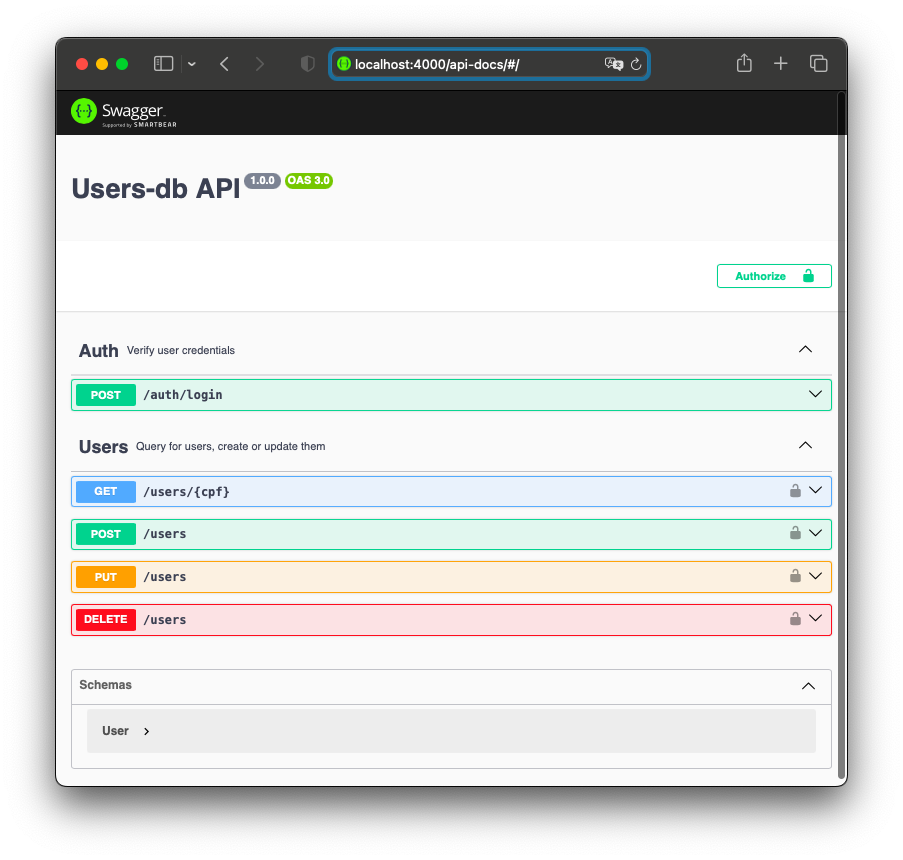
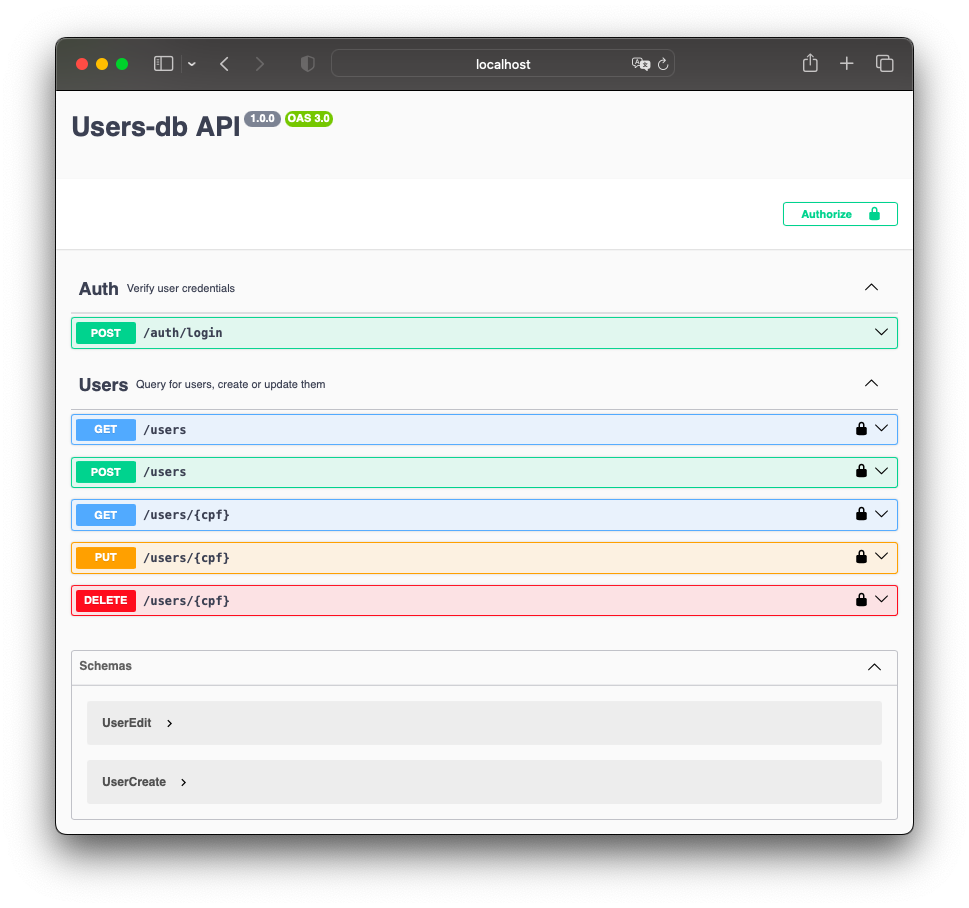
docs: updated README.md

Changed region(s): [[0.031, 0.0302, 0.9612, 0.9372], [0.093, 0.8465, 0.186, 0.8767]]

diff --git a/src/routes/users.ts b/src/routes/users.ts
@@ -204,7 +204,7 @@ routes.post("/", validateAccessToken, async (req, res) => {
 
 /**
  * @swagger
- * /users:
+ * /users/{cpf}:
  *   put:
  *     tags: [ Users ]
  *     description: Edit data of an user
@@ -255,7 +255,7 @@ routes.put("/:cpf", validateAccessToken, async (req, res) => {
 
 /**
  * @swagger
- * /users:
+ * /users/{cpf}:
  *   delete:
  *     tags: [ Users ]
  *     description: De-activate existing user, by changing "status" to "false" (don't really delete it, because it will record when and who removed this user).
